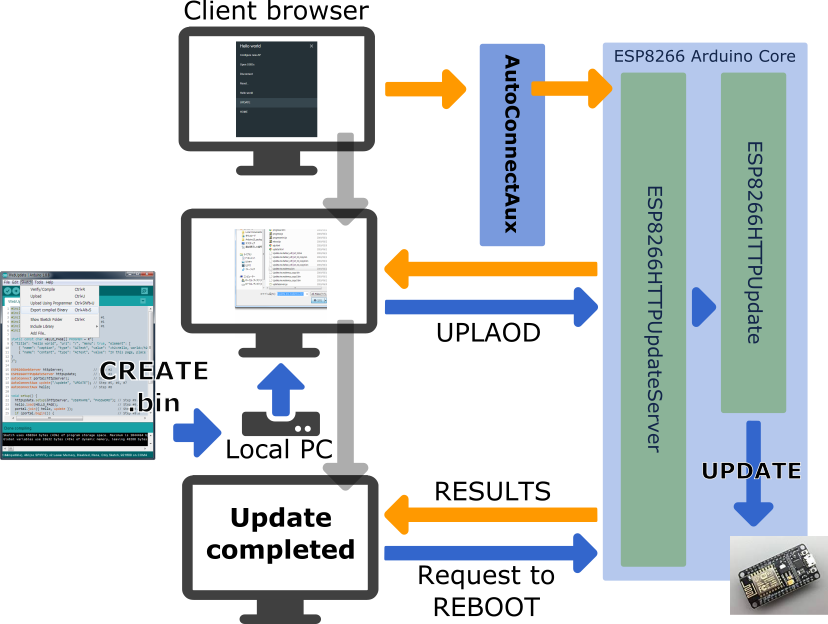
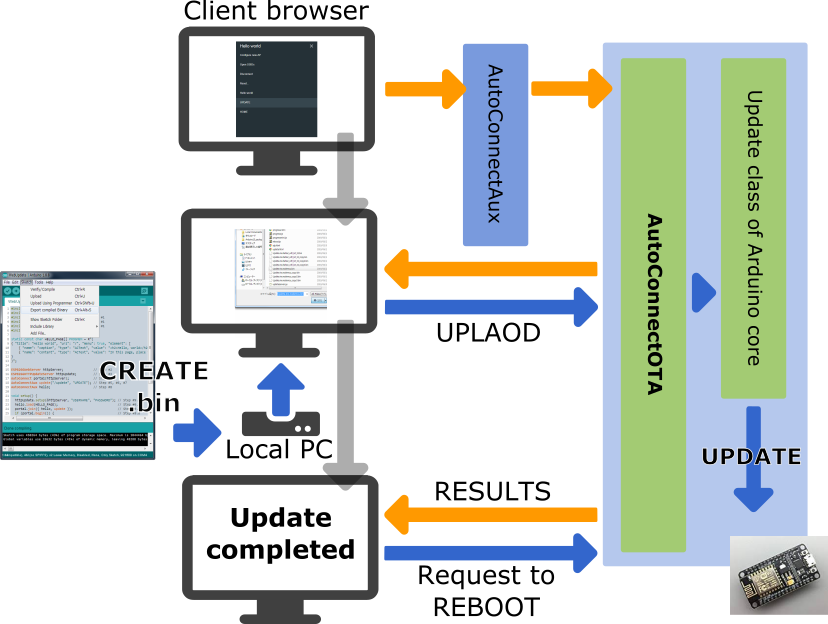
Supports AutoConnectOTA

Changed region(s): [[0.7246, 0.0609, 0.9662, 0.9439], [0.5435, 0.0609, 0.6643, 0.3958]]

diff --git a/mkdocs/otabrowser.md b/mkdocs/otabrowser.md
@@ -1,21 +1,141 @@
-## Updates with the Web Browser
+## Updates with the Web Browser&nbsp;<sup><sub>UPDATED w/v1.1.5</sub></sup>
 
-You can implement the user sketch as described in the [ESP8266 Arduino Core documentation](https://arduino-esp8266.readthedocs.io/en/latest/ota_updates/readme.html#implementation-overview) to realize using the web browser as an update client. By incorporating the ESP8266HTTPUpdateServer class into AutoConnect, you can operate the dialog page for selecting the updating binary sketch file owned by ESP8266HTTPUpdateServer from the AutoConnect menu. 
+AutoConnect features a built-in OTA function to update ESP module firmware. You can easily make the Sketch that equips OTA and able to operate with the AutoConnect menu. As the **AutoConnectOTA** class, which is compliant with OTA updates using a web browser as described in the [ESP8266 Arduino Core documentation](https://arduino-esp8266.readthedocs.io/en/latest/ota_updates/readme.html#implementation-overview).
 
-Update feature with a web browser is implemented using ESP8266HTTPUpdateServer class and ESP8266mDNS class. However, **ESP32 Arduino core does not provide a class implementation equivalent to ESP8266HTTPUpdateServer**. Therefore, it is necessary to implement an HTTPUpdateServer class for ESP32 to realize the update using a Web browser. **The AutoConnect library includes an implementation of the HTTPUpdateServer class for ESP32 to make it easy for you to experience**. [^1]
+You will be able to import the AutoConnectOTA class into your sketch just by specifying [AutoConnectConfig::ota](apiconfig.md#ota). By incorporating the AutoConnectOTA class into your Sketch, you can have an OTA updating feature which able to updating binary sketch from the AutoConnect menu.
 
-[^1]: You can find the implementation of the **HTTPUpdateServer** class in the **WebUpdate** folder included in the **AutoConnect library examples folder**.
+<span style="display:block;margin-left:auto;margin-right:auto;width:292px;height:482px;border:1px solid lightgrey;"><img data-gifffer="images/webupdate.gif" data-gifffer-height="480" data-gifffer-width="290" /></span>
+
+The AutoConnectOTA feature is implemented based on the [Updater class](https://arduino-esp8266.readthedocs.io/en/latest/ota_updates/readme.html#updater-class) of the ESP8266 arduino core library. Its Updater class is also supported by the ESP32 Arduino core, so you can commonly import AutoConnectOTA into the Sketch without being aware of the differences between ESP8266 and ESP32 modules.
 
 <img src="images/webupdate.png" width="480" />
 
-!!! warning "For the client devices equipped with Android OS"
-    Depending on the state of Android OS configuration, Bonjour service may not be incorporated. This method does not work with some Android devices as the client.
+!!! info "Limitation of AutoConnectOTA with authentication"
+    AutoConnectOTA does not support authentication in v1.1.5 yet. It is planned for inclusion in AutoConnect v1.2.0, which will support HTTP authentication.
 
-### <i class="fa fa-edit"></i> How to embed ESP8266HTTPUpdateServer in AutoConnect
+### <i class="fa fa-edit"></i> How to embed AutoConnectOTA in your sketch
 
+To embed the AutoConnectOTA class into your sketch, basically follow these steps:
+
+1. Include `ESP8266WiFi.h`, `ESP8266WebServer.h` and `AutoConnect.h` as usual.[^1]
+2. Declare an ESP8266WebServer object. It's optional. (as WebServer for ESP32)
+3. Declare an AutoConnect object,  with an argument as ESP8266WebServer if separate the declarations.
+4. Declare an AutoConnectConfig object.
+5. Declare an AutoConnectAux object for your sketch own if needed.
+6. Perform the following procedure steps in the `setup()` function:
+    1. Set [AutoConnectConfig::ota](apiconfig.md#ota) to **AC_OTA_BUILTIN** and configure AutoConnect.
+    2. Load the AutoConnectAux pages declared in step #4 for your application.
+    3. Join these pages to AutoConnect.
+    4. Invokes [AutoConnect::begin](api.md#begin) function.
+7. Invokes [AutoConnect::handleClient](api.md#handleclient) function in the `loop()`.
+
+```cpp
+#include <ESP8266WiFi.h>            // Step #1
+#include <ESP8266WebServer.h>       // Step #1
+#include <AutoConnect.h>            // Step #1
+
+ESP8266WebServer  server;           // Step #2
+AutoConnect       portal(server);   // Step #3
+AutoConnectConfig config;           // Step #4
+AutoConnectAux    hello;            // Step #5
+
+static const char HELLO_PAGE[] PROGMEM = R"(
+{ "title": "Hello world", "uri": "/", "menu": true, "element": [
+    { "name": "caption", "type": "ACText", "value": "<h2>Hello, world</h2>",  "style": "text-align:center;color:#2f4f4f;padding:10px;" },
+    { "name": "content", "type": "ACText", "value": "In this page, place the custom web page handled by the sketch application." } ]
+}
+)";                                 // Step #5
+
+void setup() {
+  config.ota = AC_OTA_BUILTIN;      // Step #6.a
+  portal.config(config);            // Step #6.a
+  hello.load(HELLO_PAGE);           // Step #6.b
+  portal.join({ hello });           // Step #6.c
+  portal.begin();                   // Step #6.d
+}
+
+void loop() {
+  portal.handleClient();            // Step #7
+}
+```
+
+[^1]:For ESP32, change the following items:
+
+    - Change the include directives appropriately for the ESP32 environment.
+    - Change ESP8266WebServer to Web.
+
+!!! faq "How LED ticking during updates"
+    AutoConnectOTA applies LED ticking during updates automatically. The destination LED port and ticker drive depends on [AutoConnectConfig::tickerPort](apiconfig.md#tickerport) and [AutoConnectConfig::tickerOn](apiconfig.md#tickeron) specifying.
+
+    **IMPORTANT**  
+    The AutoConnectOTA activates the ticker constantly regardless of the [AutoConnectConfig::ticker](apiconfig.md#ticker) value. If you want to stop the ticker output to GPIO during updates, give `0xff` to [AutoConnectConfig::tickerPort](apiconfig.md#tickerport).
+
+### <i class="fa fa-wrench"></i> AutoConnectOTA allocation URI
+
+AutoConnectOTA has implemented using AutoConnectAUX. So it occupies two URIs by default. An update operation page is assigned to **AUTOCONNECT_URI_UPDATE** and the binary file uploader for the update is assigned to **AUTOCONNECT_URI_UPDATE_ACT**. These symbols are defined in the `AutoConnectDefs.h` header file as follows:
+
+```cpp
+#define AUTOCONNECT_URI             "/_ac"
+#define AUTOCONNECT_URI_UPDATE      AUTOCONNECT_URI "/update"
+#define AUTOCONNECT_URI_UPDATE_ACT  AUTOCONNECT_URI "/update_act"
+```
+
+Therefore, the normal Sketch that imports AutoConnectOTA while keeping the default, you cannot use the two URIs `/_ac/update` and `/_ac/update_act` for your specific. If you want to use the URIs for any purpose other than AutoConnectOTA, you need to override the `AutoConnectDefs.h` definition at compile time. It can be overwritten by giving the build flags for platformio.ini as follows with the PlatformIO environment for example.
+
+```ini
+build_flags = 
+  -DAUTOCONNECT_URI_UPDATE='"/YOURURI"'
+  -DAUTOCONNECT_URI_UPDATE_ACT='"/YOURURIACT"'
+```
+
+### <i class="fa fa-wrench"></i> Timing of AutoConnectOTA instantiation
+
+It will be born during [AutoConnect::handleClient](api.md#handleclient) process. AutoConnect will evaluate the enabled state of [AutoConnectConfig::ota](apiconfig.md#ota) each time the handleClient is executed, and if OTA is enabled then it creates an AutoConnectAux internally and assigns it to the update page. At this time, AutoConnectOTA is also instantiated together. The generated AUX page containing AutoConnectOTA is bound to AutoConnect inside the AutoConnect::handleClient process.
+
+If you want to attach AutoConnectOTA dynamically with an external trigger, you can sketch like this:  
+_This sketch imports the OTA update feature with an external switch assigned to the GPIO pin. While the trigger not occurs, AutoConnect OTA will not be imported into Sketch and will not appear on the menu list._
+
+```cpp
+#include <ESP8266WiFi.h>
+#include <ESP8266WebServer.h>
+#include <AutoConnect.h>
+
+#define TRIGGER 4   // pin assigned to external trigger switch
+
+AutoConnect portal;
+AutoConnectConfig config;
+
+void setup() {
+  pinMode(TRIGGER, INPUT);
+  portal.begin();
+}
+
+void loop() {
+  if (digitalRead(TRIGGER) == HIGH) {
+    config.ota = AC_OTA_BUILTIN;
+    portal.config(config);
+  }
+  portal.handleClient();
+}
+```
+
+!!! note "AutoConnectOTA **cannot** detach dynamically"
+    Once imported, AutoConnectOTA cannot be removed from the Sketch. It can be only excluded from the menu by overriding [AutoConnectConfig::menuItems](apiconfig.md#menuitems). In this case, the AutoConnectOTA instance remains as a residue.
+
+### <i class="fa fa-wrench"></i> How to make the binary sketch
+
+Binary sketch files for updating can be retrieved using the Arduino IDE. Open the **Sketch** menu and select the **Export compiled Binary**, then starts compilation.
+
+<img src="images/export_binary.png" width="450" />
+
+When the compilation is complete, a binary sketch will save with the extension `.bin` in the same folder as the sketch.
+
+### <i class="fa fa-edit"></i> OTA updates w/browser without using AutoConnectOTA
+
+The legacy OTA method based on ESP8266HTTPUpdateServer without AutoConnectOTA is still valid. 
 To embed the ESP8266HTTPUpdateServer class with AutoConnect into your sketch, basically follow these steps:
 
-1. Include `ESP8266mDNS.h` and `ESP8266HTTPUpdateServer.h`, also `WiFiClient.h`, in addition to the usual directives as `ESP8266WebServer.h` and `AutoConnect.h`.
+1. Include `ESP8266HTTPUpdateServer.h`, also `WiFiClient.h`, in addition to the usual directives as `ESP8266WebServer.h` and `AutoConnect.h`.
 2. Declare an ESP8266WebServer object. (In ESP32, as WebServer)
 3. Declare an ESP8266HTTPUpdateServer object.
 4. Declare an AutoConnect object with an ESP8266WebServer object as an argument.
@@ -28,16 +148,12 @@ To embed the ESP8266HTTPUpdateServer class with AutoConnect into your sketch, ba
     2. Load the AutoConnectAux pages declared in step #8 for your application. (Except the update dialog page)
     3. Join these pages to AutoConnect along with the update dialog page declared in step #5.
     4. Invokes [AutoConnect::begin](api.md#begin) function.
-    5. Call the `MDNS.begin` and `MDNS.addServer` functions to start the multi cast DNS service.
-10. Perform the following procedure steps in the `loop()` function:
-    1. Call the `MDNS.update` function to parse requests for mDNS. (No needed as ESP32)
-    2. Invokes [AutoConnect::handleClient](api.md#handleclient) function.
+10. Invokes [AutoConnect::handleClient](api.md#handleclient) function in the `loop()`. 
 
 ```cpp
 #include <ESP8266WiFi.h>
 #include <ESP8266WebServer.h>
 #include <ESP8266HTTPUpdateServer.h>    // Step #1
-#include <ESP8266mDNS.h>                // Step #1
 #include <WiFiClient.h>                 // Step #1
 #include <AutoConnect.h>
 
@@ -56,53 +172,15 @@ AutoConnectAux hello;                       // Step #8
 
 void setup() {
   httpUpdate.setup(&httpServer, "USERNAME", "PASSWORD"); // Step #9.a
-  hello.load(HELLO_PAGE);                                // Step #9.b
-  portal.join({ hello, update });                        // Step #9.c
-  if (portal.begin()) {                                  // Step #9.d
-    if (MDNS.begin("esp-webupdate"))                     // Step #9.e
-        MDNS.addService("http", "tcp", 80);              // Step #9.e
-  }
+  hello.load(HELLO_PAGE);                   // Step #9.b
+  portal.join({ hello, update });           // Step #9.c
+  portal.begin();                           // Step #9.d
 }
 
 void loop() {
-  MDNS.update();            // Step #10.a
-  portal.handleClient();    // Step #10.b
+  portal.handleClient();                    // Step #10
 }
 ```
-
-!!! hint "For ESP32"
-    This procedure is equally applicable to ESP32. If the target module is ESP32, change the following items:
-
-    - Change the include directives appropriately for the ESP32 environment.
-    - Change ESP8266HTTPUpdaetServer to HTTPUpdateServer using an implementation provided from AutoConnect library example code.
-    - Remove `MDNS.update` line from the sketch code.
-
-!!! example "Share an ESP8266WebServer"
-    AutoConnect shares the ESP8266WebServer instance with the ESP8266HTTPUpdateServer class. You can give the same instance as ESP8266WebServer instance given to AutoConnect to ESP8266HTTPUpdateServer class.
-    ```cpp
-    ESP8266WebServer httpServer;
-    ESP8266HTTPUpdateServer updateServer;
-    AutoConnect portal(httpServer);
-    updateServer(&httpServer);
-    ```
-    This sharing specification is the same for ESP32.
-
-The result of the above sketch should be as follows. [^2]
-
-[^2]: The authentication dialog is displayed first.
-
-<span style="display:block;margin-left:auto;margin-right:auto;width:282px;height:362px;border:1px solid lightgrey;"><img data-gifffer="images/webupdate.gif" data-gifffer-height="360" data-gifffer-width="280" /></span>
-
-!!! faq "How LED ticking during updates"
-    You **cannot** get the ticker with LED during updates by using this way. It is since the current implementation of the ESP8266HTTPUpdateServer class of the Arduino core **library does not assign an LED PIN** to the ESP8266HTTPUpdate class.
-
-### <i class="fa fa-wrench"></i> How to make the binary sketch
-
-Binary sketch files for updating can be retrieved using the Arduino IDE. Open the **Sketch** menu and select the **Export compiled Binary**, then starts compilation.
-
-<img src="images/export_binary.png" width="450" />
-
-When the compilation is complete, a binary sketch will save with the extension `.bin` in the same folder as the sketch.
 
 <script>
   window.onload = function() {

diff --git a/mkdocs/apiconfig.md b/mkdocs/apiconfig.md
@@ -194,13 +194,14 @@ Disable the first WiFi.begin() and start the captive portal. If this option is e
 Configure applying items of the [AutoConnect menu](menu.md). You can arbitrarily combine valid menus by coordinating the menuItems value.
 <dl class="apidl">
     <dt>**Type**</dt>
-    <dd><span class="apidef">uint16_t</span><span class="apidesc">It provides the combined **AC_MENUITEM_t** value of the item to apply to the AutoConnect menu.<br>Specify the value calculated from the **logical OR** by the AC_MENUITEM_t value of each item applied as a menu.  It affects not only disappear the items from the menu also invalidates the URI they have. As a consequence, even if it accesses the URL directly will occur a 404 error.<br>The default value is logical OR of AC_MENUITEM_CONFIGNEW, AC_MENUITEM_OPENSSIDS, AC_MENUITEM_DISCONNECT, AC_MENUITEM_RESET and AC_MENUITEM_HOME.</span></dd>
+    <dd><span class="apidef">uint16_t</span><span class="apidesc">It provides the combined **AC_MENUITEM_t** value of the item to apply to the AutoConnect menu.<br>Specify the value calculated from the **logical OR** by the AC_MENUITEM_t value of each item applied as a menu.  It affects not only disappear the items from the menu also invalidates the URI they have. As a consequence, even if it accesses the URL directly will occur a 404 error.<br>The default value is logical OR of AC_MENUITEM_CONFIGNEW, AC_MENUITEM_OPENSSIDS, AC_MENUITEM_DISCONNECT, AC_MENUITEM_RESET, AC_MENUITEM_UPDATE and AC_MENUITEM_HOME.</span></dd>
     <dt>**Value**</dt>
     <dd><span class="apidef">AC_MENUITEM_NONE</span><span class="apidesc"></span><span class="apidef">&nbsp;</span><span class="apidesc">No assign items except for the AutoConnectAux page item.</span></dd>
     <dd><span class="apidef">AC_MENUITEM_CONFIGNEW</span><span class="apidesc"></span><span class="apidef">&nbsp;</span><span class="apidesc">Appends [Configure new AP](menu.md#config-new-ap) item.</span></dd>
     <dd><span class="apidef">AC_MENUITEM_OPENSSIDS</span><span class="apidesc"></span><span class="apidef">&nbsp;</span><span class="apidesc">Appends [Open SSIDs](menu.md#open-ssids) item.</span></dd>
     <dd><span class="apidef">AC_MENUITEM_DISCONNECT</span><span class="apidesc"></span><span class="apidef">&nbsp;</span><span class="apidesc">Appends [Disconnect](menu.md#disconnect) item.</span></dd>
     <dd><span class="apidef">AC_MENUITEM_RESET</span><span class="apidesc"></span><span class="apidef">&nbsp;</span><span class="apidesc">Appends [Reset...](menu.md#reset) item.</span></dd>
+    <dd><span class="apidef">AC_MENUITEM_UPDATE</span><span class="apidesc"></span><span class="apidef">&nbsp;</span><span class="apidesc">Appends [Update](menu.md#update) item.</span></dd>
     <dd><span class="apidef">AC_MENUITEM_HOME</span><span class="apidesc"></span><span class="apidef">&nbsp;</span><span class="apidesc">Appends [HOME](menu.md#home) item.</span></dd>
     <dd><span class="apidef">AC_MENUITEM_DEVINFO</span><span class="apidesc"></span><span class="apidef">&nbsp;</span><span class="apidesc">Appends the **Device info** item which links to [AutoConnect statistics page](menu.md##where-the-from).</span></dd>
 </dl>
@@ -220,6 +221,18 @@ Sets subnet mask for Soft AP in captive portal. When AutoConnect fails the initi
     <dt>**Type**</dt>
     <dd><span class="apidef">IPAddress</span><span class="apidesc">The default value is **255.255.255.0**</span></dd>
 </dl>
+
+### <i class="fa fa-caret-right"></i> ota
+
+Specifies to import the built-in OTA update class into the sketch. When this option is enabled, an **Update** item will appear in the AutoConnect menu, and the OTA update via Web browser will be automatically embedded to the Sketch.
+<dl class="apidl">
+    <dt>**Type**</dt>
+    <dd>AC_OTA_t</dd>
+    <dt>**Value**</dt>
+    <dd><span class="apidef">AC_OTA_EXTRA</span><span class="apidesc"></span><span class="apidef">&nbsp;</span><span class="apidesc">AutoConnect does not import AutoConnectOTA. This is the default.</span></dd>
+    <dd><span class="apidef">AC_OTA_BUILTIN</span><span class="apidesc"></span><span class="apidef">&nbsp;</span><span class="apidesc">Specifies to include AutoConnectOTA in the Sketch.</span></dd>
+</dl>
+
 
 ### <i class="fa fa-caret-right"></i> portalTimeout
 

diff --git a/mkdocs/advancedusage.md b/mkdocs/advancedusage.md
@@ -444,6 +444,7 @@ AutoConnect will activate SoftAP at failed the first *WiFi.begin*. It SoftAP set
 - Home URL of the user sketch application.
 - Menu title.
 - Ticker signal output.
+- Built-in OTA update.
 
 !!! note "AutoConnect::config before AutoConnect::begin"
     *AutoConnect::config* must be executed before *AutoConnect::begin*.
@@ -453,6 +454,22 @@ AutoConnect will activate SoftAP at failed the first *WiFi.begin*. It SoftAP set
 **HOME** for returning to the user's sketch homepage will display at the bottom of the AutoConnect menu. It could be set using the [*AutoConnect::home*](api.md#home) function.
 
 <img src="images/menu_home.png" />
+
+The sketch HOME path is closely related to the [bootUri](apiconfig.md#booturi) that specifies the access path on module restart. AutoConnect has the following three parameters concerning control the URIs:
+
+- **AUTOCONNECT_URI**  
+    The **ROOT** of AutoConnect. It is defined in `AutoConnectDefs.h` and is assigned an [AutoConnect statistics screen](menu.md#where-the-from) by default.
+- [**AutoConnectConfig::homeUri**](apiconfig.md#homeuri)  
+    It is the hyperlink of listed on the AutoConnect menu list as **HOME**.
+- [**AutoConnectConfig::bootUri**](apiconfig.md#booturi)  
+    Which page appears at the captive portal, AUTOCONNECT_URI or the homeUri. Its page will pop up automatically when you visit the captive portal.
+
+| The definition of **HOME** | Behavior | Specified by | Default value | Possible value |
+|---|---|---|---|---|
+| **ROOT** of AutoConnect | Default for AC_ONBOOTURI_ROOT | `#define AUTOCONNECT_URI` in `AutoConnectDefs.h` |  `/_ac` | URI string |
+| **HOME** for Application-specific | Listed on the **menu list** as **HOME**<br>Also, It may be linked from the **menu title** and is **redundant** with the HOME menu item.<br>eg. Case of bootURI = AC_ONBOOTURI_HOME | AutoConnectConfig::homeURI | `/` | URI string |
+| Which page **loads** at the boot time, ROOT or HOME | Appears after module reboot by **RESET** button with AutoConnect menu | AutoConnectConfig::bootURI | AC_ONBOOTURI_ROOT | AC_ONBOOTURI_HOME |
+| Which page **appears** at the captive portal, ROOT or HOME | Auto pop-up | AutoConnectConfig::bootURI | AC_ONBOOTURI_ROOT | AC_ONBOOTURI_HOME |
 
 ### <i class="fa fa-caret-right"></i> Change SSID and Password for SoftAP
 
@@ -582,3 +599,18 @@ NodeMCU 32s | Active-high | 2 | T2
 LOLIN32 Pro | Active-low | 5 | SS
 SparkFun ESP32 Thing | Active-high | 5
 Adafruit Feather HUZZAH32 | Active-high | 13 | A12
+
+### <i class="fa fa-caret-right"></i> Built-in OTA update feature
+
+AutoConnect features a built-in OTA function to update ESP module firmware. You can easily make the Sketch that equips OTA and able to operate with the AutoConnect menu.
+
+<span style="display:block;margin-left:auto;margin-right:auto;width:292px;height:482px;border:1px solid lightgrey;"><img data-gifffer="images/webupdate.gif" data-gifffer-height="480" data-gifffer-width="290" /></span>
+
+[AutoConnectConfig::ota](apiconfig.md#ota) specifies to import the [built-in OTA update class](otabrowser.md) into the Sketch.  
+See the [Updates with the Web Browser](otabrowser.md) chapter for details.
+
+<script>
+  window.onload = function() {
+    Gifffer();
+  };
+</script>

diff --git a/mkdocs/otaupdate.md b/mkdocs/otaupdate.md
@@ -2,7 +2,7 @@
 
 AutoConnect provides **two type platforms** for updating the binary sketch in the ESP8266 or ESP32 module via OTA. They correspond to the [Web Browser Update](https://arduino-esp8266.readthedocs.io/en/latest/ota_updates/readme.html#web-browser) and [HTTP Server Update](https://arduino-esp8266.readthedocs.io/en/latest/ota_updates/readme.html#http-server) whiches mentioned in the [ESP8266 Arduino Core documentation](https://arduino-esp8266.readthedocs.io/en/latest/ota_updates/readme.html#ota-updates).
 
-[**The update behavior using a web browser**](otabrowser.md) as the client that supplies the binary sketch file for update follows the scenario assumed by the ESP8266 Arduino core. Therefore, the user sketch must meet the requirements described in the ESP8266 Arduino Core documentation, but you can easily embed the update feature that able to handle with the web browser by AutoConnect. All you need to do is that [join](api.md#join) the [AutoConnectAux](apiaux.md) with embedded **ESP8266HTTPUpdateServer**[^1] of the core library to AutoConnect.
+[**The update behavior using a web browser**](otabrowser.md) as the client that supplies the binary sketch file for update follows the scenario assumed by the ESP8266 Arduino core. Therefore, the user sketch must meet the requirements described in the ESP8266 Arduino Core documentation, but you can easily embed the OTA update feature that able to operate via the web browser by AutoConnect menu. All you need to do is that specify [AutoConnectConfig](apiconfig.md#ota).
 
 [^1]: The AutoConnect library provides an implementation of the **HTTPUpdateServer** class that ported from ESP8266HTTPUpdateServer class for ESP32 intention. It is contained the **WebUpdate** under the examples folder.
 

diff --git a/mkdocs/menu.md b/mkdocs/menu.md
@@ -18,6 +18,7 @@ Currently, AutoConnect supports four menus. Undermost menu as "HOME" returns to 
 - **Open SSIDs**: Opens the past SSID which has been established connection from the flash.
 - **Disconnect**: Disconnects current connection.
 - **Reset...**: Rest the ESP8266/ESP32 module.
+- **Update**: OTA updates. (Optional)
 - **HOME**: Return to user home page.
 
 <img src="images/menu.png" style="width:280px;" />
@@ -65,6 +66,13 @@ Resetting the ESP8266/ESP32 module will initiate a reboot. When the module resta
 ## <i class="fa fa-bars"></i> Custom menu items
 
 If the sketch has custom Web pages, the AutoConnect menu lines them up with the AutoConnect's items. Details for [Custom Web pages in AutoConnect menu](acintro.md#custom-web-pages-in-autoconnectmenu).
+
+## <i class="fa fa-bars"></i> Update
+
+If you specify [AutoConnectConfig::ota](apiconfig.md#ota) to import the OTA update feature into Sketch, an item will appear in the menu list as **Update**.
+
+!!! note "The Update menu item will appear only AutoConnectOTA enabled"
+    The Update item is displayed automatically in the menu only when [AutoConnectConfig::ota](apiconfig.md#ota) is specified with **AC_OTA_BUILTIN** or [AutoConnectUpdate](otaserver.md#how-to-embed-autoconnectupdate-to-your-sketch) is attached.
 
 ## <i class="fa fa-bars"></i> HOME
 

diff --git a/mkdocs/index.md b/mkdocs/index.md
@@ -39,11 +39,11 @@ Easy implementing the Web interface constituting the WLAN for ESP8266/ESP32 WiFi
 <span style="float:left;width:242px;height:425px;border:1px solid lightgrey;"><img data-gifffer="images/aux_ov.gif" data-gifffer-width="240" data-gifffer-height="423" /></span>
 </div>
 
-### <i class="fa fa-arrow-circle-right" aria-hidden="true"></i> Quick and easy to equip the [OTA update feature](otaupdate.md) <sup><sub>ENHANCED w/v1.0.0</sub></sup>
+### <i class="fa fa-arrow-circle-right" aria-hidden="true"></i> Quick and easy to equip the [OTA update feature](otaupdate.md) <sup><sub>UPDATED w/v1.1.5</sub></sup>
 
 <span class="lead">You can quickly and easily equip the OTA update feature to your sketch and also you can operate the firmware update process via OTA from AutoConnect menu.</span>
 
-<span style="display:block;margin-left:auto;margin-right:auto;width:282px;height:362px;border:1px solid lightgrey;"><img data-gifffer="images/webupdate.gif" data-gifffer-height="360" data-gifffer-width="280" /></span>
+<span style="display:block;margin-left:auto;margin-right:auto;width:294px;height:482px;border:1px solid lightgrey;"><img data-gifffer="images/webupdate.gif" data-gifffer-height="480" data-gifffer-width="292" /></span>
 
 ## Installation
 

diff --git a/mkdocs/changelog.md b/mkdocs/changelog.md
@@ -1,6 +1,7 @@
-#### [1.1.5] Apr. 1, 2020
-- Supports AutoConnect menu configuration.
-- Changed the bootUri behavior to be an automatic pop-up at the captive portal.
+#### [1.1.5] Apr. 15, 2020
+- Changed the [bootUri behavior](advancedusage.md#assign-user-sketchs-home-path) to be an automatic pop-up at the captive portal.
+- Supports AutoConnect [menu configuration](menu.md#applying-the-active-menu-items).
+- Supports the built-in OTA feature as [AutoConnectOTA](otabrowser.md#updates-with-the-web-browserupdated-wv115).
 
 #### [1.1.4] Feb. 14, 2020
 - Supports for overriding text of the menu items with user-defined labels.
